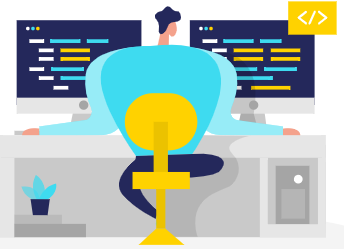
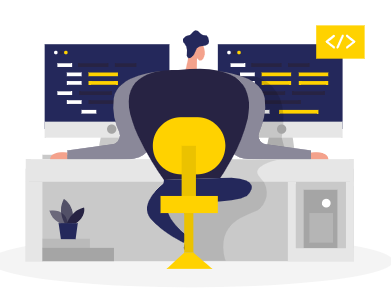
new graphic chart and add fontawesone

diff --git a/pages/index.vue b/pages/index.vue
@@ -1,5 +1,5 @@
 <template>
-  <section>
+  <main>
     <section class="presentation">
       <div class="desc">
         <h1>
@@ -9,11 +9,13 @@
           Vous apportez la meilleure visibilité à travers différents canaux tel que Facebook Instagram Youtube ou Google
           L'objectif est de mettre en place une stratégie digitale clé en main pour vous permettre de générer des propspects de manière récurrente .Et d'également améliorer l'image de marque de votre entreprise
         </p>
-         <button class="button btn">
+        <div class="content-btn">
+          <button class="button btn">
            Nous contacer
          </button>
+        </div>
       </div>
-      <div>
+      <div class="content-img">
         <img src="../assets/marketing.png" alt="">
       </div>
     </section>
@@ -22,7 +24,7 @@
       <div class="cards">
         <div class="card">
           <h2>Dévelopement application et site</h2>
-          <div class="card-img">
+          <div class="content-img">
             <img src="../assets/dev.png" alt="">
           </div>
           <p>
@@ -32,7 +34,7 @@
         </div>
         <div class="card">
           <h2>Facebook ADS</h2>
-          <div class="card-img">
+          <div class="content-img">
             <img src="../assets/facebook.png" alt="">
           </div>
           <p>
@@ -42,7 +44,7 @@
         </div>
         <div class="card">
           <h2>Creation de Funnel / Conversion</h2>
-          <div class="card-img">
+          <div class="content-img">
             <img src="../assets/busines.png" alt="">
           </div>
           <p>
@@ -53,7 +55,7 @@
     </section>
 
     <section id="why-are-we">
-      <div class="card-img">
+      <div class="content-img">
         <img src="../assets/ceo.jpg" alt="">
       </div>
       <div class="desc">
@@ -73,32 +75,37 @@
       </div>
       <form action="">
         <div class="row">
-          <div class="input">
-            <p>Nom</p>
-            <input type="text" name="" id="" placeholder="Votre nom">
+          <div class="col">
+            <div class="content-input">
+              <input type="text" placeholder="Votre nom">
+            </div>
           </div>
-          <div class="input">
-            <p>Email</p>
-            <input type="text" name="" id="" placeholder="Email">
+          <div class="col">
+            <div class="content-input">
+              <input type="text" placeholder="Email">
+            </div>
           </div>
-          <div class="input">
-            <p>Téléphone</p>
-            <input type="tel" name="" id="" placeholder="Téléphone">
+          <div class="col">
+            <div class="content-input">
+              <input type="tel" placeholder="Téléphone">
+            </div>
           </div>
         </div>
         <div class="row">
-          <div class="input">
-            <p>Message</p>
-            <textarea name="" id="" cols="30" rows="10" placeholder="Message"></textarea>
+          <div class="col">
+            <div class="content-input">
+              <input type="text" placeholder="Message">
+            </div>
           </div>
-          <div class="content-btn">
+          <div class="col">
             <button>Envoyer</button>
           </div>
         </div>
       </form>
     </section>
 
-  </section>
+
+  </main>
 </template>
 
 <script>
@@ -114,8 +121,18 @@ export default {
 </script>
 <style lang="scss">
 .presentation{
-  margin: 0 100px;
+  padding: 30px 100px;
+
   display: flex;
+  @media (max-width: 500px) {
+    display: block;
+    padding: 20px;
+    .desc{
+      margin-right: 0!important;
+      margin-bottom: 30px;
+    }
+  }
+
   .desc{
     margin-right: 30px;
     h1{
@@ -144,11 +161,18 @@ export default {
     .card{
       margin: 20px;
       background-color: #fffffe;
-      .card-img{
+      .content-img{
         text-align: center;
       }
       p{
         padding: 20px;
+      }
+    }
+    @media (max-width: 500px) {
+      display: block;
+      margin: 0 0px;
+      h2{
+        padding: 20px 20px 0 20px;
       }
     }
   }
@@ -157,7 +181,14 @@ export default {
     display: flex;
     margin: 0 100px;
     padding: 40px 0;
-    .card-img{
+    @media (max-width: 500px) {
+      display: block;
+      margin: 0 20px;
+      .content-img{
+        margin-right: 0!important;
+      }
+    }
+    .content-img{
       margin-right: 40px;
     }
     .desc{
@@ -170,13 +201,61 @@ export default {
 #contact{
   background-color: #e3f6f5;
   padding: 30px 100px;
+  @media (max-width: 500px) {
+    display: block;
+    padding: 20px;
+  }
   .row{
-    display: flex;
-    input, textarea{
-      background-color: #fffffe;
-      padding: 20px;
-      border: none;
+    display: grid;
+    grid-template-columns: repeat(3, 1fr);
+    margin-top: 20px;
+    &:last-child{
+      grid-template-columns: 2fr 1fr;
     }
+    
+    .col{
+      overflow: hidden;
+      .content-input{
+        margin-right: 20px;
+        overflow: hidden;
+      }
+      &:last-child{
+        .content-input{
+          margin-right: 0;
+        }
+      }
+      input{
+        background-color: #fffffe;
+        line-height: 48px;
+        padding: 0 16px;
+        width: 100%;
+        border: none;
+      }
+      button {
+          line-height: 48px;
+          border: none;
+          background-color: #272343;
+          color: white;
+          font-weight: 600;
+          width: 100%;
+          padding: 0;
+          cursor: pointer;
+          &:hover{
+            opacity: 0.7;
+          }
+      }
+    }
+  }
+}
+@media (max-width: 500px){
+  .content-img{
+    text-align: center;
+    img{
+      max-width: 300px;
+    }
+  }
+  .content-btn{
+    text-align: center;
   }
 }
 </style>

diff --git a/components/NavBar.vue b/components/NavBar.vue
@@ -1,6 +1,7 @@
 <template>
-    <nav>
-        <a href="" class="logo">Tiger digital</a>
+<header>
+    <nav class="desktop">
+        <img src="../assets/logo-1.png" alt="">
         <ul>
             <li>
                 <a href="">Nos services</a>
@@ -13,29 +14,63 @@
             </li>
         </ul>
     </nav>
+    <nav class="mobile">
+        <div class="content-nav">
+            <img src="../assets/logo-1.png" alt="">
+            <span>
+                <i class="fas fa-bars"></i>
+            </span>
+        </div>
+    </nav>
+</header>
 </template>
 <style lang="scss">
-nav{
+.desktop{
     display: flex;
     justify-content: space-between;
-    padding: 20px;
-
+    padding: 20px 100px;
+    @media (max-width: 500px){
+        display: none;
+    }
     ul{
         display: flex;
         margin: 0;
         li{
             list-style: none;
             margin-left: 20px;
+            font-size: 18px;
         }
     }
     .logo{
         color: #3edbf0;
     }
+    img{
+        height: 60px;
+    }
     a{
         text-decoration: none;
         color: #2d334a;
         &:hover{
-            color: #3edbf0;
+            color: #ffd803;
+        }
+    }
+}
+.mobile{
+    display: none;
+    padding: 20px;
+    @media (max-width: 500px){
+        display: block;
+    }
+    .content-nav{
+        display: flex;
+        justify-content: space-between;
+        line-height: 60px;
+        img{
+            height: 60px;
+        }
+        span i{
+            font-size: 30px;
+            cursor: pointer;
         }
     }
 }

diff --git a/layouts/default.vue b/layouts/default.vue
@@ -6,13 +6,9 @@
       <nuxt />
     </div>
     <footer class="footer">
-      <div class="content has-text-centered">
         <p>
-          <strong>Bulma</strong> by <a href="https://jgthms.com">Jeremy Thomas</a>. The source code is licensed
-          <a href="http://opensource.org/licenses/mit-license.php">MIT</a>. The website content
-          is licensed <a href="http://creativecommons.org/licenses/by-nc-sa/4.0/">CC BY NC SA 4.0</a>.
+          © 2021 Tiger Digital | <a href="mailto:contact@tiger-gital.com">contact@tiger-digital.com</a> | Suivez nous <a href="http://https://www.instagram.com/bramsforreal/"><i class="fab fa-instagram"></i></a>
         </p>
-      </div>
     </footer>
 
   </main>
@@ -36,6 +32,7 @@ main{
   font-family: 'Open Sans', sans-serif;
   background-color: #fffffe;
   color: #2d334a;
+  overflow: hidden;
 }
 
 .logo{
@@ -45,28 +42,26 @@ main{
 }
 
 .btn{
-  background-color: #3edbf0;
-  border: 1px solid #3edbf0;
+  background-color: #ffd803;
+  border: none;
   border-style: none;
-  padding: 10px 16px;
+  padding: 0 32px;
   border-radius: 4px;
+  line-height: 48px;
   &:hover{
     background-color: #bae8e8;
   }
 }
-.navbar{
-  .navbar-item{
-    &:hover{
-      color: #3edbf0;
-    }
-  }
-}
+
 .center{
   text-align: center;
 }
 footer{
+  text-align: center;
+  overflow: hidden;
+  line-height: 60px;
   a{
-    color: #3edbf0;
+    color: #ffd803
   }
 }
 </style>

diff --git a/nuxt.config.js b/nuxt.config.js
@@ -12,6 +12,11 @@ export default {
     ],
     link: [
       { rel: 'icon', type: 'image/x-icon', href: '/favicon.ico' }
+    ],
+    script: [
+      {
+        src: 'https://kit.fontawesome.com/6f447f0190.js'
+      }
     ]
   },
 
